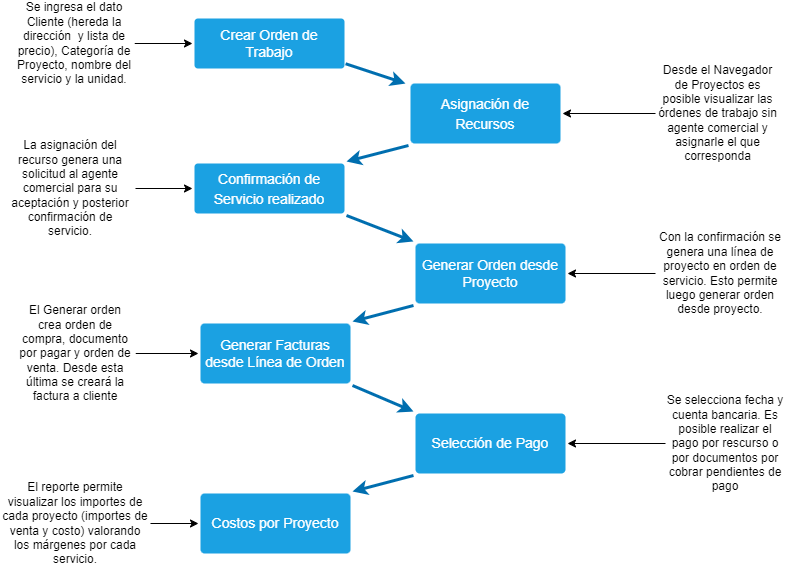
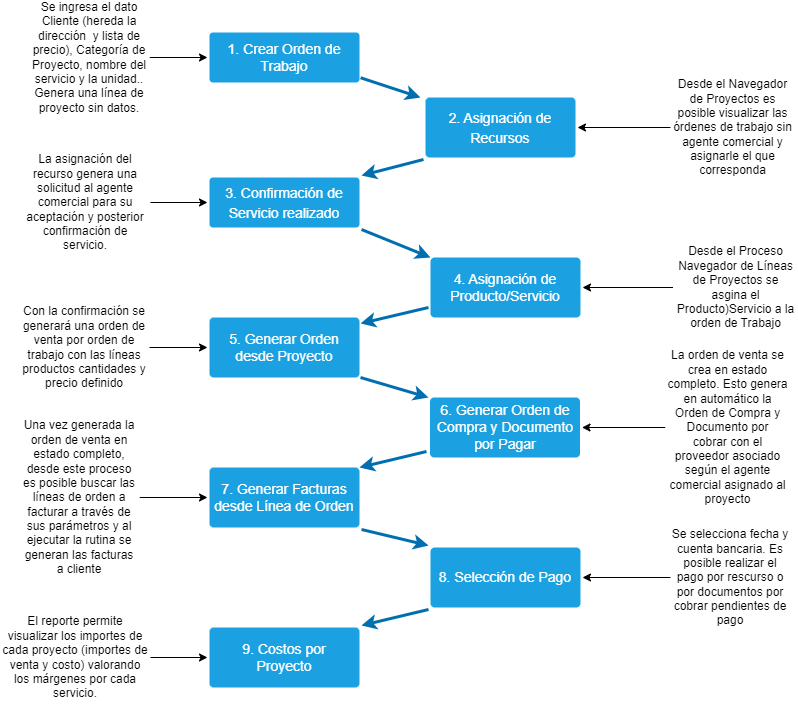
corrijo circuito de field services, cambio diagrama

Changed region(s): [[0.0, 0.0, 1.0, 1.0]]

diff --git a/src/docs/verticals/field-services-management/work-order.md b/src/docs/verticals/field-services-management/work-order.md
@@ -12,24 +12,28 @@ Una orden de trabajo es considerado un Proyecto para Solop ERP.
 Se trata de una unidad de gestión que agrupa un conjunto de entidades que le dan forma y describen un determinado Servicio.
 
 El primer paso para la creación de una Orden de trabajo es ingresar en la ventana el nombre del cliente (Socio del negocio del cual hereda la dirección y precio de lista), la fecha de inicio del servicio a realizar y seleccionar una categoría de Proyecto (y la unidad o departamento).
-En este paso solo se genera el evento (no se asignan recursos o productos).
+En este paso solo se genera el evento (no se asignan recursos o productos). Además el sistema creará una línea de proyecto vacía para agilizar el proceso.
 
 ![Orden de Trabajo](/assets/img/docs/field-services-management/fis-services2.png)
 
 ### Asignación de Recursos
 
 Desde la ventana de Navegador de Proyectos es posible visualizar aquellas órdenes de trabajo que aun no posean agente comercial (es quien realizará el servicio).
-Una vez asignado a un agente comercial, el sistema le envía una notificación (solicitud) por el servicio a realizar al agente comercial en cuestión (es posible configurar el envío del mensaje por diferentes vehículos de comunicación).
+Una vez asignado a un agente comercial, el sistema le envía una notificación (solicitud) por el servicio a realizar al agente comercial en cuestión (es posible configurar el envío del mensaje por diferentes vehículos de comunicación). Además, esta acción cambiará el estado de la orden de trabajo de "Nuevo" a "Asignado"
 El agente comercial podrá aceptar el servicio a realizar. Y posteriormente a haberlo realizado, podrá enviar una confirmación del trabajo realizado (esto habilita los pasos posteriores para generar las órdenes y la facturación).
 
 ![Navegador de Proyectos](/assets/img/docs/field-services-management/fis-services3.png)
 
-### Confirmación de Servicio realizado
+### Confirmación de Servicio realizado - Navegador de Líneas de Proyectos
 
 Una vez realizado el servicio (ejemplo: painting), el agente comercial enviará una notificación confirmando el trabajo realizado.
 Esto permite al departamento de Administración entrar en la orden de trabajo vinculada a ese servicio y generar una línea de orden de trabajo (de Proyecto) agregando el/los productos confirmados por el agente comercial y dejar preparado el proyecto para la generación de órdenes y su posterior facturación.
 
+Para agilizar este flujo es posible realizarlo desde el proceso "Navegador de líneas de proyectos", el cual, posee parámetros para filtrar las líneas de proyecto tales como Organización, Socio del Negocio, Agente Comercial, Fecha Inicio e Inicio Programado. Al tildar cada línea de proyecto permite seleccionar el producto (servicio), el cual se graba en la correspondiente orden de trabajo (definiendo el importe según Lista de Precio).
+
 ![Línea de Proyecto](/assets/img/docs/field-services-management/fis-services4.png)
+
+![Línea de Proyecto](/assets/img/docs/field-services-management/fis-services10.png)
 
 ### Generar Orden desde Proyecto
 
